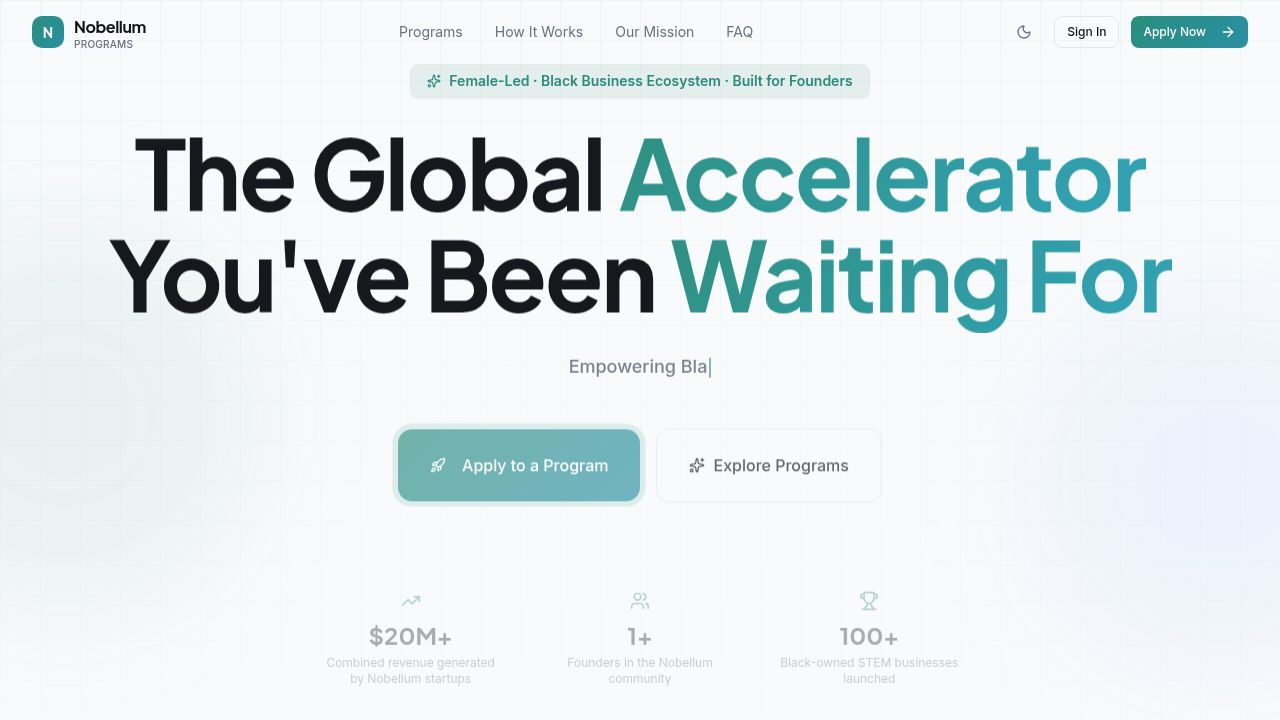
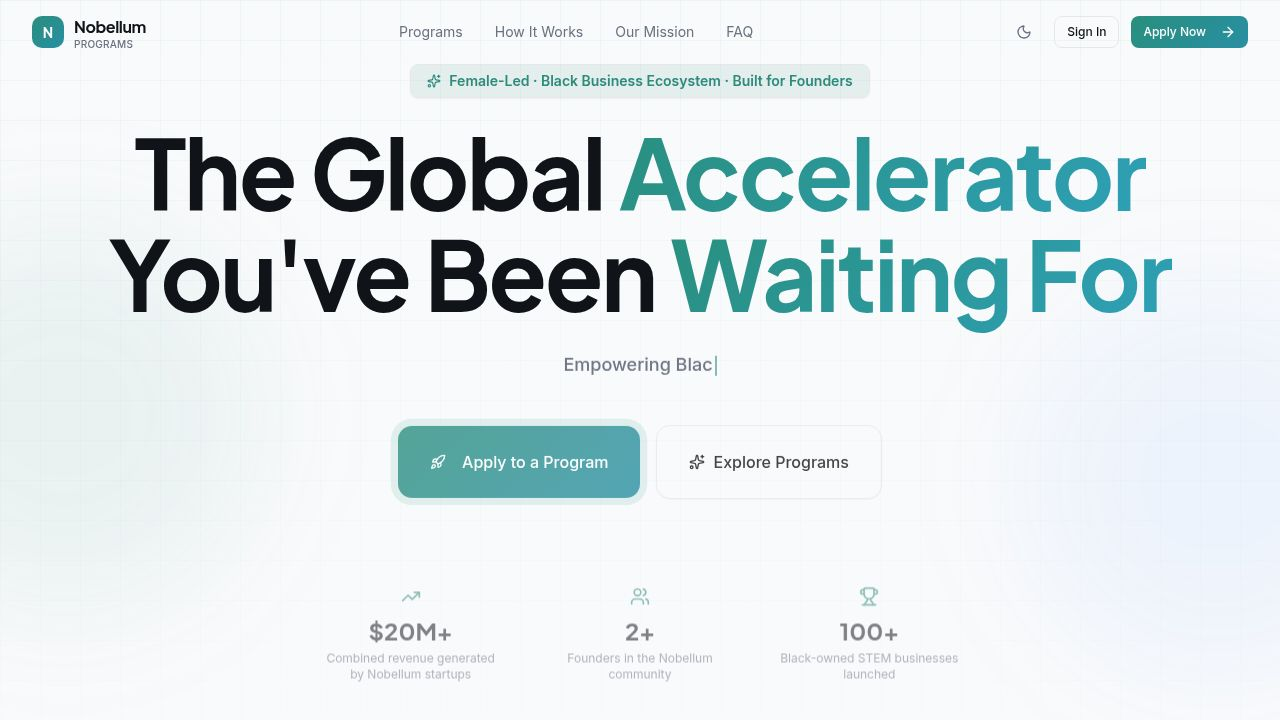
Enable Venture Associate role and update user interface elements
Refactor App.tsx, mp-layout.tsx, and login.tsx to properly handle the 'ventureassociate' role, including redirect logic, sidebar navigation, and login demo account display.

Replit-Commit-Author: Agent
Replit-Commit-Session-Id: 3608d683-1e7f-451e-81ba-6932f683b0b6
Replit-Commit-Checkpoint-Type: full_checkpoint
Replit-Commit-Event-Id: 15cb7a17-86cb-42f6-a667-dd0198558731
Replit-Commit-Screenshot-Url: https://storage.googleapis.com/screenshot-production-us-central1/693885b8-9e40-4e5b-941a-697651f52f77/3608d683-1e7f-451e-81ba-6932f683b0b6/ebs3uPt
Replit-Helium-Checkpoint-Created: true

diff --git a/artifacts/score-sheet/src/components/mp-layout.tsx b/artifacts/score-sheet/src/components/mp-layout.tsx
@@ -1,4 +1,4 @@
-import { useState } from "react";
+import React, { useState } from "react";
 import { useLocation } from "wouter";
 import { useAuth } from "@/lib/auth";
 import { useTheme } from "@/lib/theme";
@@ -8,7 +8,7 @@ import {
   FileSignature, Building2, HelpCircle, BookOpen, Vote,
 } from "lucide-react";
 
-const NAV_ITEMS = [
+const MP_NAV_ITEMS = [
   { icon: LayoutDashboard, label: "Dashboard",       path: "/mp/dashboard"      },
   { icon: GitBranch,       label: "Deal Flow",        path: "/mp/deal-flow"      },
   { icon: Vote,            label: "IC Meetings",      path: "/mp/ic-meetings"    },
@@ -24,7 +24,18 @@ const NAV_ITEMS = [
   { icon: CalendarCheck,   label: "Advisory",         path: "/mp/advisory"       },
 ];
 
-function NavItem({ item, currentPath }: { item: typeof NAV_ITEMS[number]; currentPath: string }) {
+const VA_NAV_ITEMS = [
+  { icon: GitBranch,     label: "Deal Flow",    path: "/mp/deal-flow"    },
+  { icon: Vote,          label: "IC Meetings",  path: "/mp/ic-meetings"  },
+  { icon: FileSignature, label: "Term Sheets",  path: "/mp/term-sheet"   },
+  { icon: Briefcase,     label: "Portfolio",    path: "/mp/investments"  },
+  { icon: HelpCircle,    label: "Founder Asks", path: "/mp/founder-asks" },
+  { icon: CalendarCheck, label: "Advisory",     path: "/mp/advisory"     },
+];
+
+type NavItemDef = { icon: React.ElementType; label: string; path: string };
+
+function NavItem({ item, currentPath }: { item: NavItemDef; currentPath: string }) {
   const [, navigate] = useLocation();
   const isActive = currentPath === item.path;
   return (
@@ -44,9 +55,12 @@ function NavItem({ item, currentPath }: { item: typeof NAV_ITEMS[number]; curren
 }
 
 function Sidebar({ onClose }: { onClose?: () => void }) {
-  const { user, logout } = useAuth();
+  const { user, logout, role } = useAuth();
   const { resolvedTheme, toggleTheme } = useTheme();
   const [location, navigate] = useLocation();
+  const isVA = role === "ventureassociate";
+  const navItems = isVA ? VA_NAV_ITEMS : MP_NAV_ITEMS;
+  const roleLabel = isVA ? "Venture Associate" : "Managing Partner";
   const initials = user?.name ? user.name.split(" ").map((n: string) => n[0]).join("").toUpperCase().slice(0, 2) : "MP";
 
   return (
@@ -58,7 +72,7 @@ function Sidebar({ onClose }: { onClose?: () => void }) {
           </div>
           <div>
             <span className="font-display font-bold text-sm text-sidebar-foreground">Nobellum</span>
-            <div className="text-[10px] text-muted-foreground leading-none">Ventures — Managing Partner</div>
+            <div className="text-[10px] text-muted-foreground leading-none">Ventures — {roleLabel}</div>
           </div>
         </div>
         {onClose && (
@@ -66,7 +80,7 @@ function Sidebar({ onClose }: { onClose?: () => void }) {
         )}
       </div>
       <nav className="flex-1 px-3 py-4 space-y-1 overflow-y-auto">
-        {NAV_ITEMS.map((item) => (
+        {navItems.map((item) => (
           <NavItem key={item.path} item={item} currentPath={location} />
         ))}
       </nav>

diff --git a/artifacts/score-sheet/src/pages/login.tsx b/artifacts/score-sheet/src/pages/login.tsx
@@ -307,13 +307,14 @@ export default function Login() {
               {showDemo && (
                 <div className="mt-2 border border-border/50 rounded-lg overflow-hidden text-xs">
                   {[
-                    { role: "SuperAdmin",      email: "[email redacted]",    pin: "Nobellum2025!", color: "bg-violet-50 text-violet-700" },
-                    { role: "Admin",           email: "[email redacted]",   pin: "Admin1234",    color: "bg-blue-50 text-blue-700" },
-                    { role: "ManagingPartner", email: "[email redacted]",      pin: "Partner1234",  color: "bg-teal-50 text-teal-700 dark:bg-teal-900/30 dark:text-teal-300" },
-                    { role: "IC",              email: "[email redacted]",      pin: "IC12341234",   color: "bg-emerald-50 text-emerald-700" },
-                    { role: "Judge",           email: "[email redacted]",   pin: "Judge1234",    color: "bg-amber-50 text-amber-700" },
-                    { role: "Founder",         email: "[email redacted]", pin: "Founder1234",  color: "bg-orange-50 text-orange-700" },
-                    { role: "LP",              email: "[email redacted]",      pin: "LP12341234",   color: "bg-pink-50 text-pink-700" },
+                    { role: "SuperAdmin",        email: "[email redacted]",    pin: "Nobellum2025!", color: "bg-violet-50 text-violet-700 dark:bg-violet-900/30 dark:text-violet-300" },
+                    { role: "Admin",             email: "[email redacted]",   pin: "Admin1234",    color: "bg-blue-50 text-blue-700 dark:bg-blue-900/30 dark:text-blue-300" },
+                    { role: "ManagingPartner",   email: "[email redacted]",      pin: "Partner1234",  color: "bg-teal-50 text-teal-700 dark:bg-teal-900/30 dark:text-teal-300" },
+                    { role: "VentureAssociate",  email: "[email redacted]",      pin: "Associate1234",color: "bg-cyan-50 text-cyan-700 dark:bg-cyan-900/30 dark:text-cyan-300" },
+                    { role: "IC",                email: "[email redacted]",      pin: "IC12341234",   color: "bg-emerald-50 text-emerald-700 dark:bg-emerald-900/30 dark:text-emerald-300" },
+                    { role: "Judge",             email: "[email redacted]",   pin: "Judge1234",    color: "bg-amber-50 text-amber-700 dark:bg-amber-900/30 dark:text-amber-300" },
+                    { role: "Founder",           email: "[email redacted]", pin: "Founder1234",  color: "bg-orange-50 text-orange-700 dark:bg-orange-900/30 dark:text-orange-300" },
+                    { role: "LP",                email: "[email redacted]",      pin: "LP12341234",   color: "bg-pink-50 text-pink-700 dark:bg-pink-900/30 dark:text-pink-300" },
                   ].map(({ role, email, pin, color }) => (
                     <button
                       key={role}

diff --git a/artifacts/score-sheet/src/App.tsx b/artifacts/score-sheet/src/App.tsx
@@ -84,6 +84,7 @@ function RootRedirect() {
     else if (role === "founder") navigate("/founder/dashboard");
     else if (role === "ic") navigate("/ic/dashboard");
     else if (role === "managingpartner") navigate("/mp/dashboard");
+    else if (role === "ventureassociate") navigate("/mp/deal-flow");
     else if (role === "lp") navigate("/lp/dashboard");
   }, []);
 
@@ -94,6 +95,7 @@ function RootRedirect() {
   if (role === "founder") return <FounderDashboard />;
   if (role === "ic") return <ICDashboard />;
   if (role === "managingpartner") return <MPDashboard />;
+  if (role === "ventureassociate") return <MPDealFlow />;
   if (role === "lp") return <LPDashboard />;
   return <Landing />;
 }